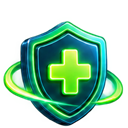
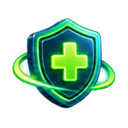
normalize and center all service artwork

diff --git a/frontend/index.html b/frontend/index.html
@@ -88,11 +88,11 @@
             <button class="scan-button" aria-label="Pindai QR"><svg viewBox="0 0 24 24"><path d="M4 9V5a1 1 0 0 1 1-1h4M15 4h4a1 1 0 0 1 1 1v4M20 15v4a1 1 0 0 1-1 1h-4M9 20H5a1 1 0 0 1-1-1v-4M9 9h6v6H9z"/></svg></button>
           </div>
           <div class="quick-services" aria-label="Layanan cepat">
-            <button class="service-card" data-type="Pulsa"><span class="service-3d"><img src="/assets/service-pulsa-3d.png" alt="" width="58" height="58" loading="eager" decoding="async"></span><b>Pulsa</b></button>
-            <button class="service-card" data-type="Paket Data"><span class="service-3d"><img src="/assets/service-data-3d.png" alt="" width="58" height="58" loading="eager" decoding="async"></span><b>Data</b></button>
-            <button class="service-card" data-type="E-Wallet"><span class="service-3d"><img src="/assets/service-wallet-3d.png" alt="" width="58" height="58" loading="eager" decoding="async"></span><b>E-Wallet</b></button>
-            <button class="service-card" data-type="Token PLN"><span class="service-3d"><img src="/assets/service-listrik-3d.png" alt="" width="58" height="58" loading="eager" decoding="async"></span><b>Listrik</b></button>
-            <button class="service-card" data-type="Lainnya"><span class="service-3d"><img src="/assets/service-lainnya-3d.png" alt="" width="58" height="58" loading="eager" decoding="async"></span><b>Lainnya</b></button>
+            <button class="service-card" data-type="Pulsa"><span class="service-3d"><img src="/assets/service-pulsa-3d-compact.png" alt="" width="43" height="43" loading="eager" decoding="async"></span><b>Pulsa</b></button>
+            <button class="service-card" data-type="Paket Data"><span class="service-3d"><img src="/assets/service-data-3d-compact.png" alt="" width="43" height="43" loading="eager" decoding="async"></span><b>Data</b></button>
+            <button class="service-card" data-type="E-Wallet"><span class="service-3d"><img src="/assets/service-wallet-3d-compact.png" alt="" width="43" height="43" loading="eager" decoding="async"></span><b>E-Wallet</b></button>
+            <button class="service-card" data-type="Token PLN"><span class="service-3d"><img src="/assets/service-listrik-3d-compact.png" alt="" width="43" height="43" loading="eager" decoding="async"></span><b>Listrik</b></button>
+            <button class="service-card" data-type="Lainnya"><span class="service-3d"><img src="/assets/service-lainnya-3d-compact.png" alt="" width="43" height="43" loading="eager" decoding="async"></span><b>Lainnya</b></button>
           </div>
           <article class="pulse-showcase">
             <div class="showcase-top"><span>#MakinUntung</span><small>Semua operator tersedia</small></div>

diff --git a/frontend/src/styles/responsive-layout.css b/frontend/src/styles/responsive-layout.css
@@ -90,8 +90,6 @@
     white-space: nowrap !important;
   }
 
-  #dashboardPage .quick-services .service-card:nth-child(2) > .service-3d > img { width: 45px !important; height: 45px !important; max-width: 45px !important; max-height: 45px !important; }
-  #dashboardPage .quick-services .service-card:nth-child(4) > .service-3d > img { width: 41px !important; height: 41px !important; max-width: 41px !important; max-height: 41px !important; }
 }
 
 /* Keep the product as a centered phone app on tablets and computers. */

diff --git a/frontend/public/sw.js b/frontend/public/sw.js
@@ -1,4 +1,4 @@
-const CACHE = 'antarapulsa-shell-v4';
+const CACHE = 'antarapulsa-shell-v5';
 const SHELL = ['/', '/manifest.webmanifest', '/assets/brand-mark.png'];
 
 self.addEventListener('install', event => {
